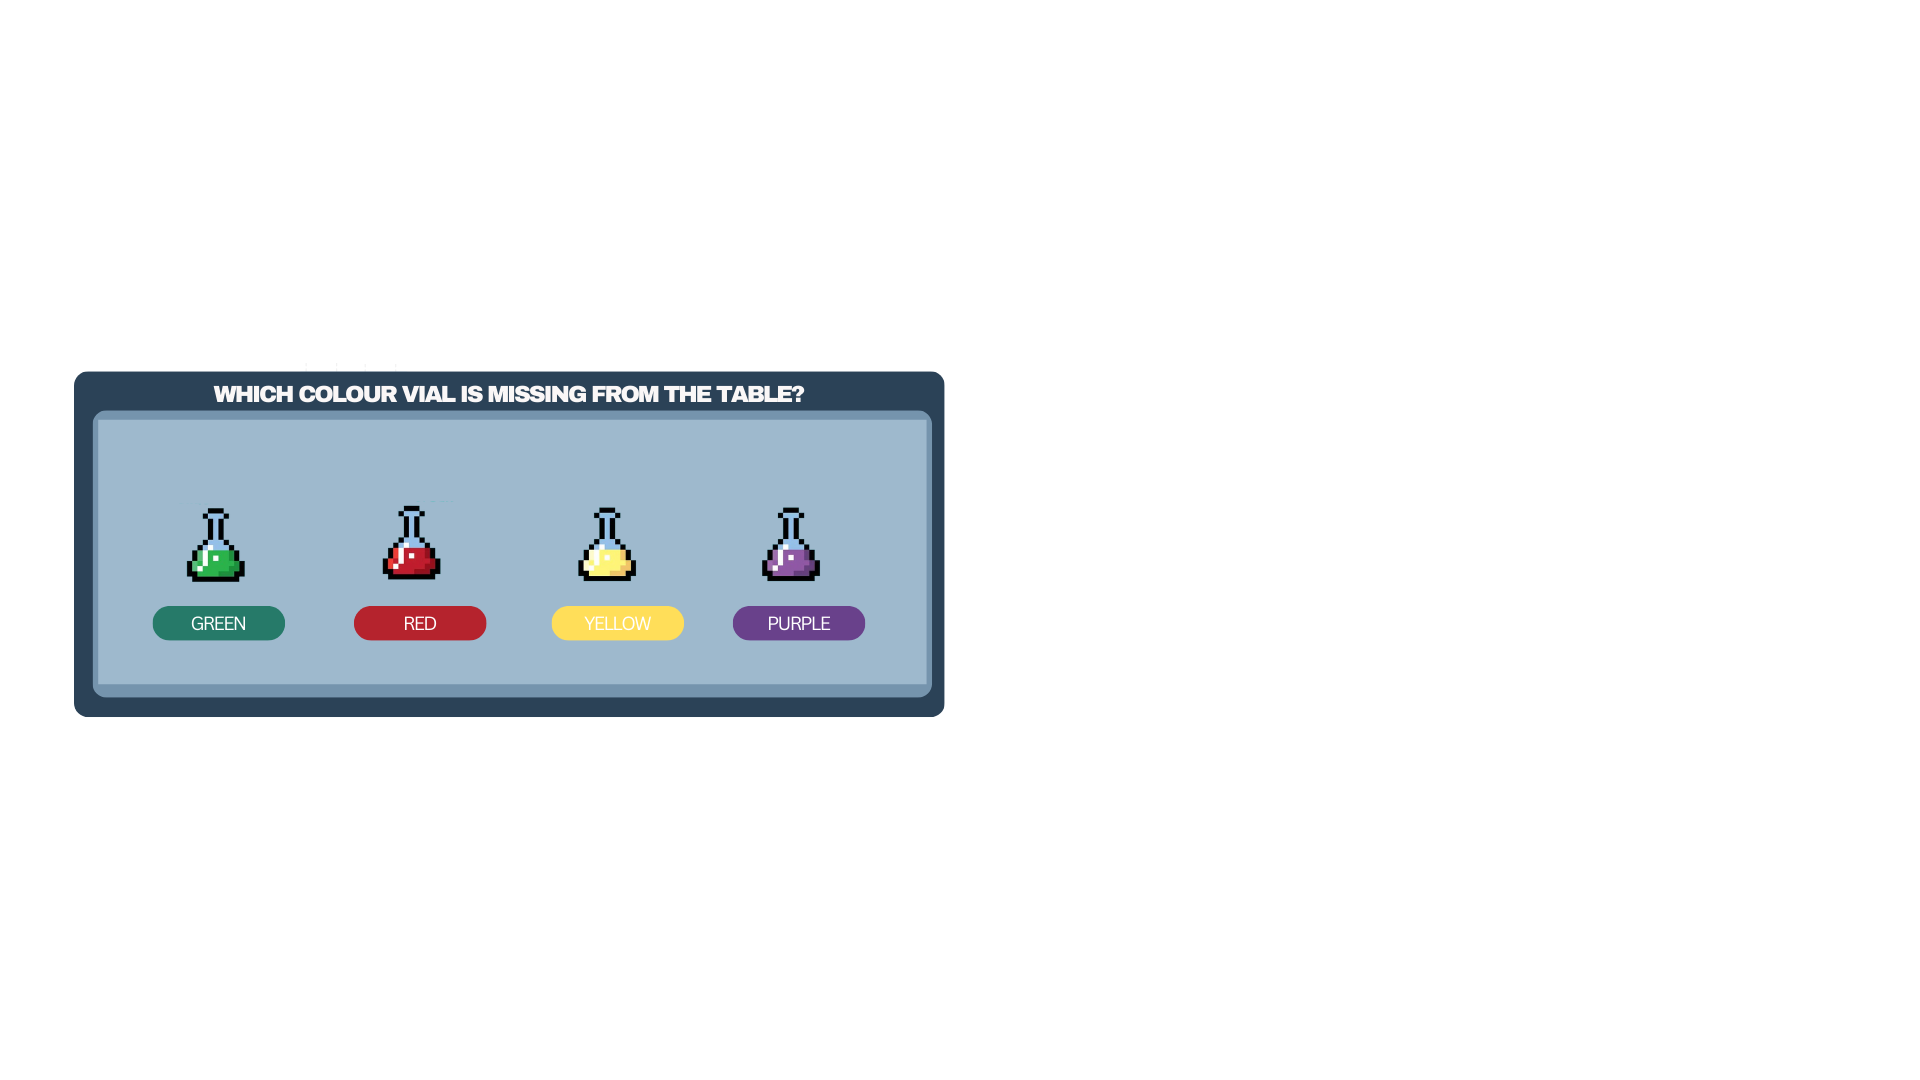
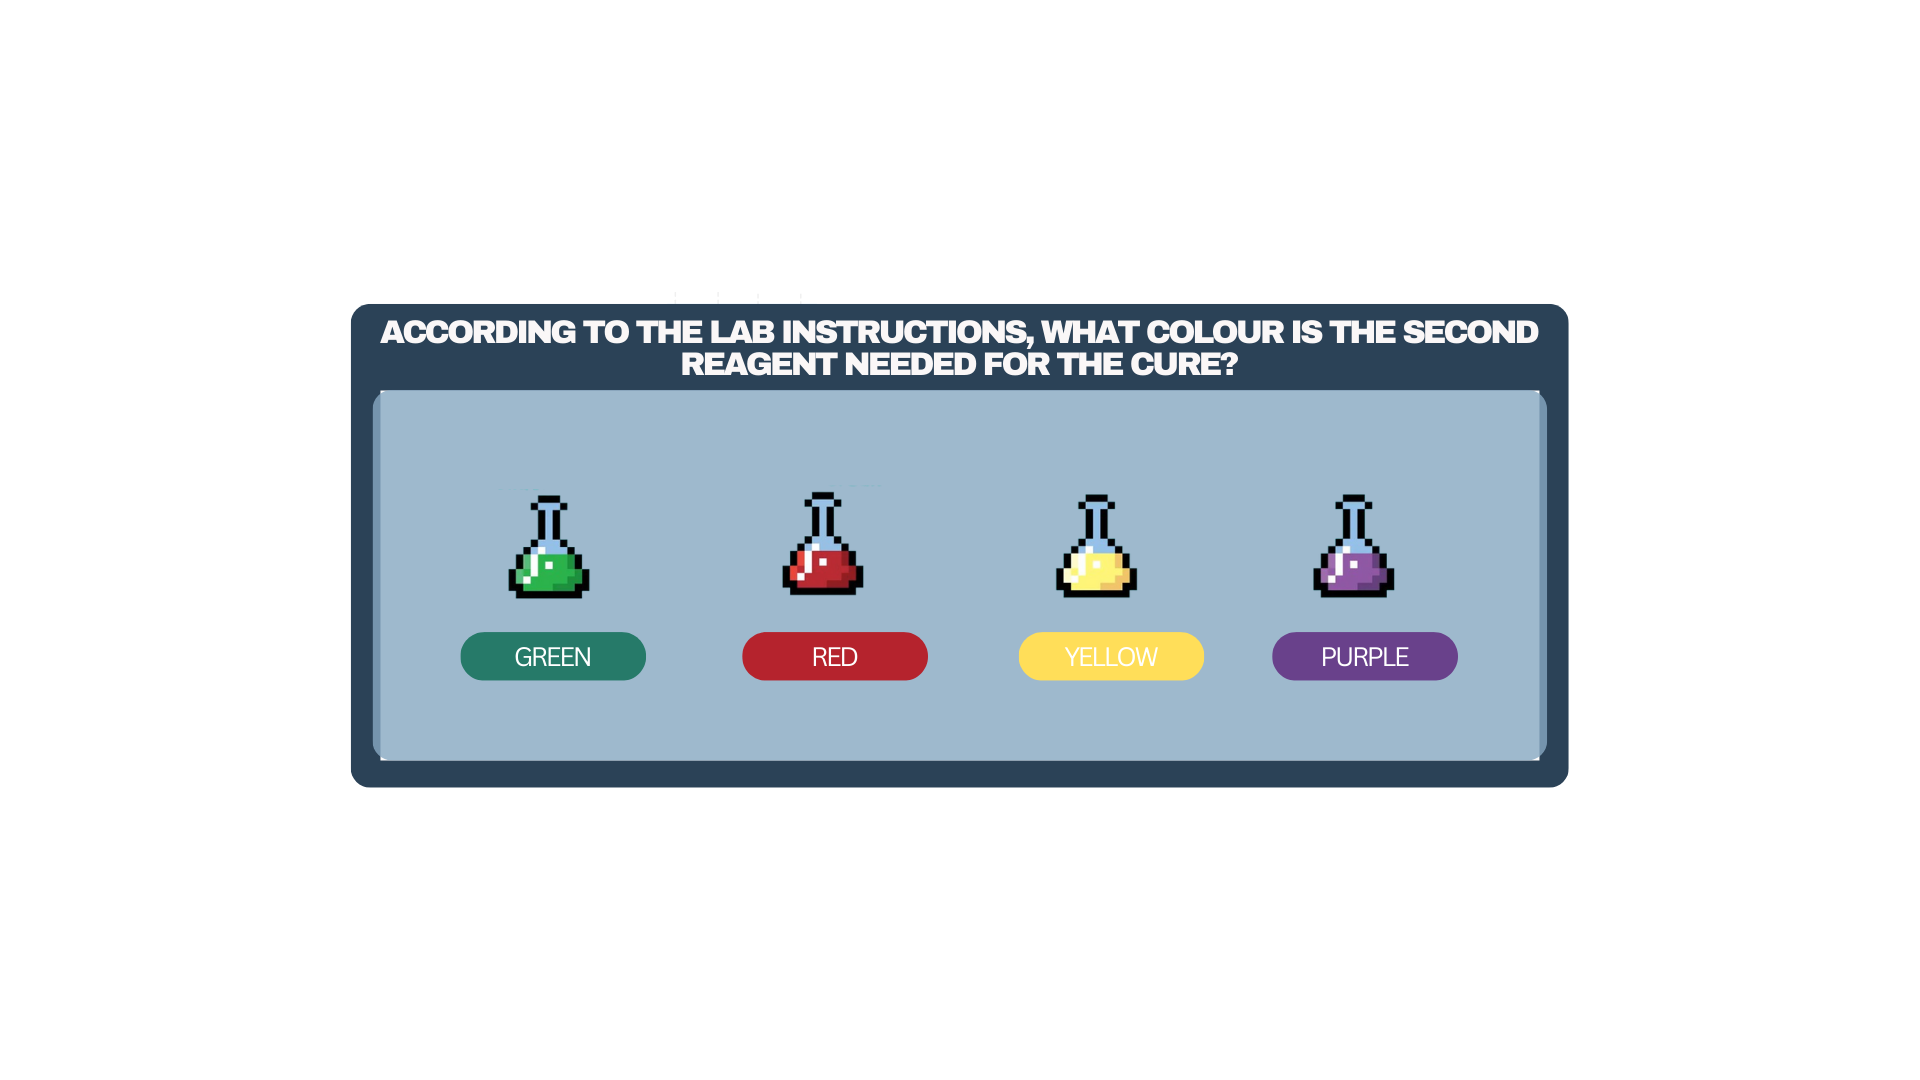
chemistrypuzzle

Changed region(s): [[0.0312, 0.275, 0.8438, 0.7333]]

diff --git a/game/ChemistryPuzzle.js b/game/ChemistryPuzzle.js
@@ -69,10 +69,10 @@ class ChemistryPuzzle {
   
     // draw the question popup that asks which vial color is missing
     drawQuestionPopup() {
-      const imgWidth = 800;
-      const imgHeight = 600;
-      const x = 293;
-      const y = 260;
+      const imgWidth = 600;
+      const imgHeight = 350;
+      const x = 200;
+      const y = 360;
       imageMode(CORNER);
       image(vialQuestionImg, x, y, imgWidth, imgHeight);
     }
@@ -102,12 +102,12 @@ class ChemistryPuzzle {
       if (!this.showQuestion || this.vialCollected) return;
   
       const buttons = [
-        { color: "green", x: 356, y: 586, w: 60, h: 40 },
-        { color: "red", x: 444, y: 585, w: 60, h: 40 },
-        { color: "yellow", x: 517, y: 586, w: 60, h: 40 },
-        { color: "purple", x: 595, y: 589, w: 60, h: 40 },
+        { color: "green",  x: 346, y: 572, w: 50, h: 20 },
+        { color: "red",    x: 434, y: 568, w: 50, h: 20 },
+        { color: "yellow", x: 520, y: 566, w: 50, h: 20 },
+        { color: "purple", x: 600, y: 571, w: 50, h: 20 },
       ];
-  
+      
       for (let btn of buttons) {
         if (
           mx > btn.x && mx < btn.x + btn.w &&
